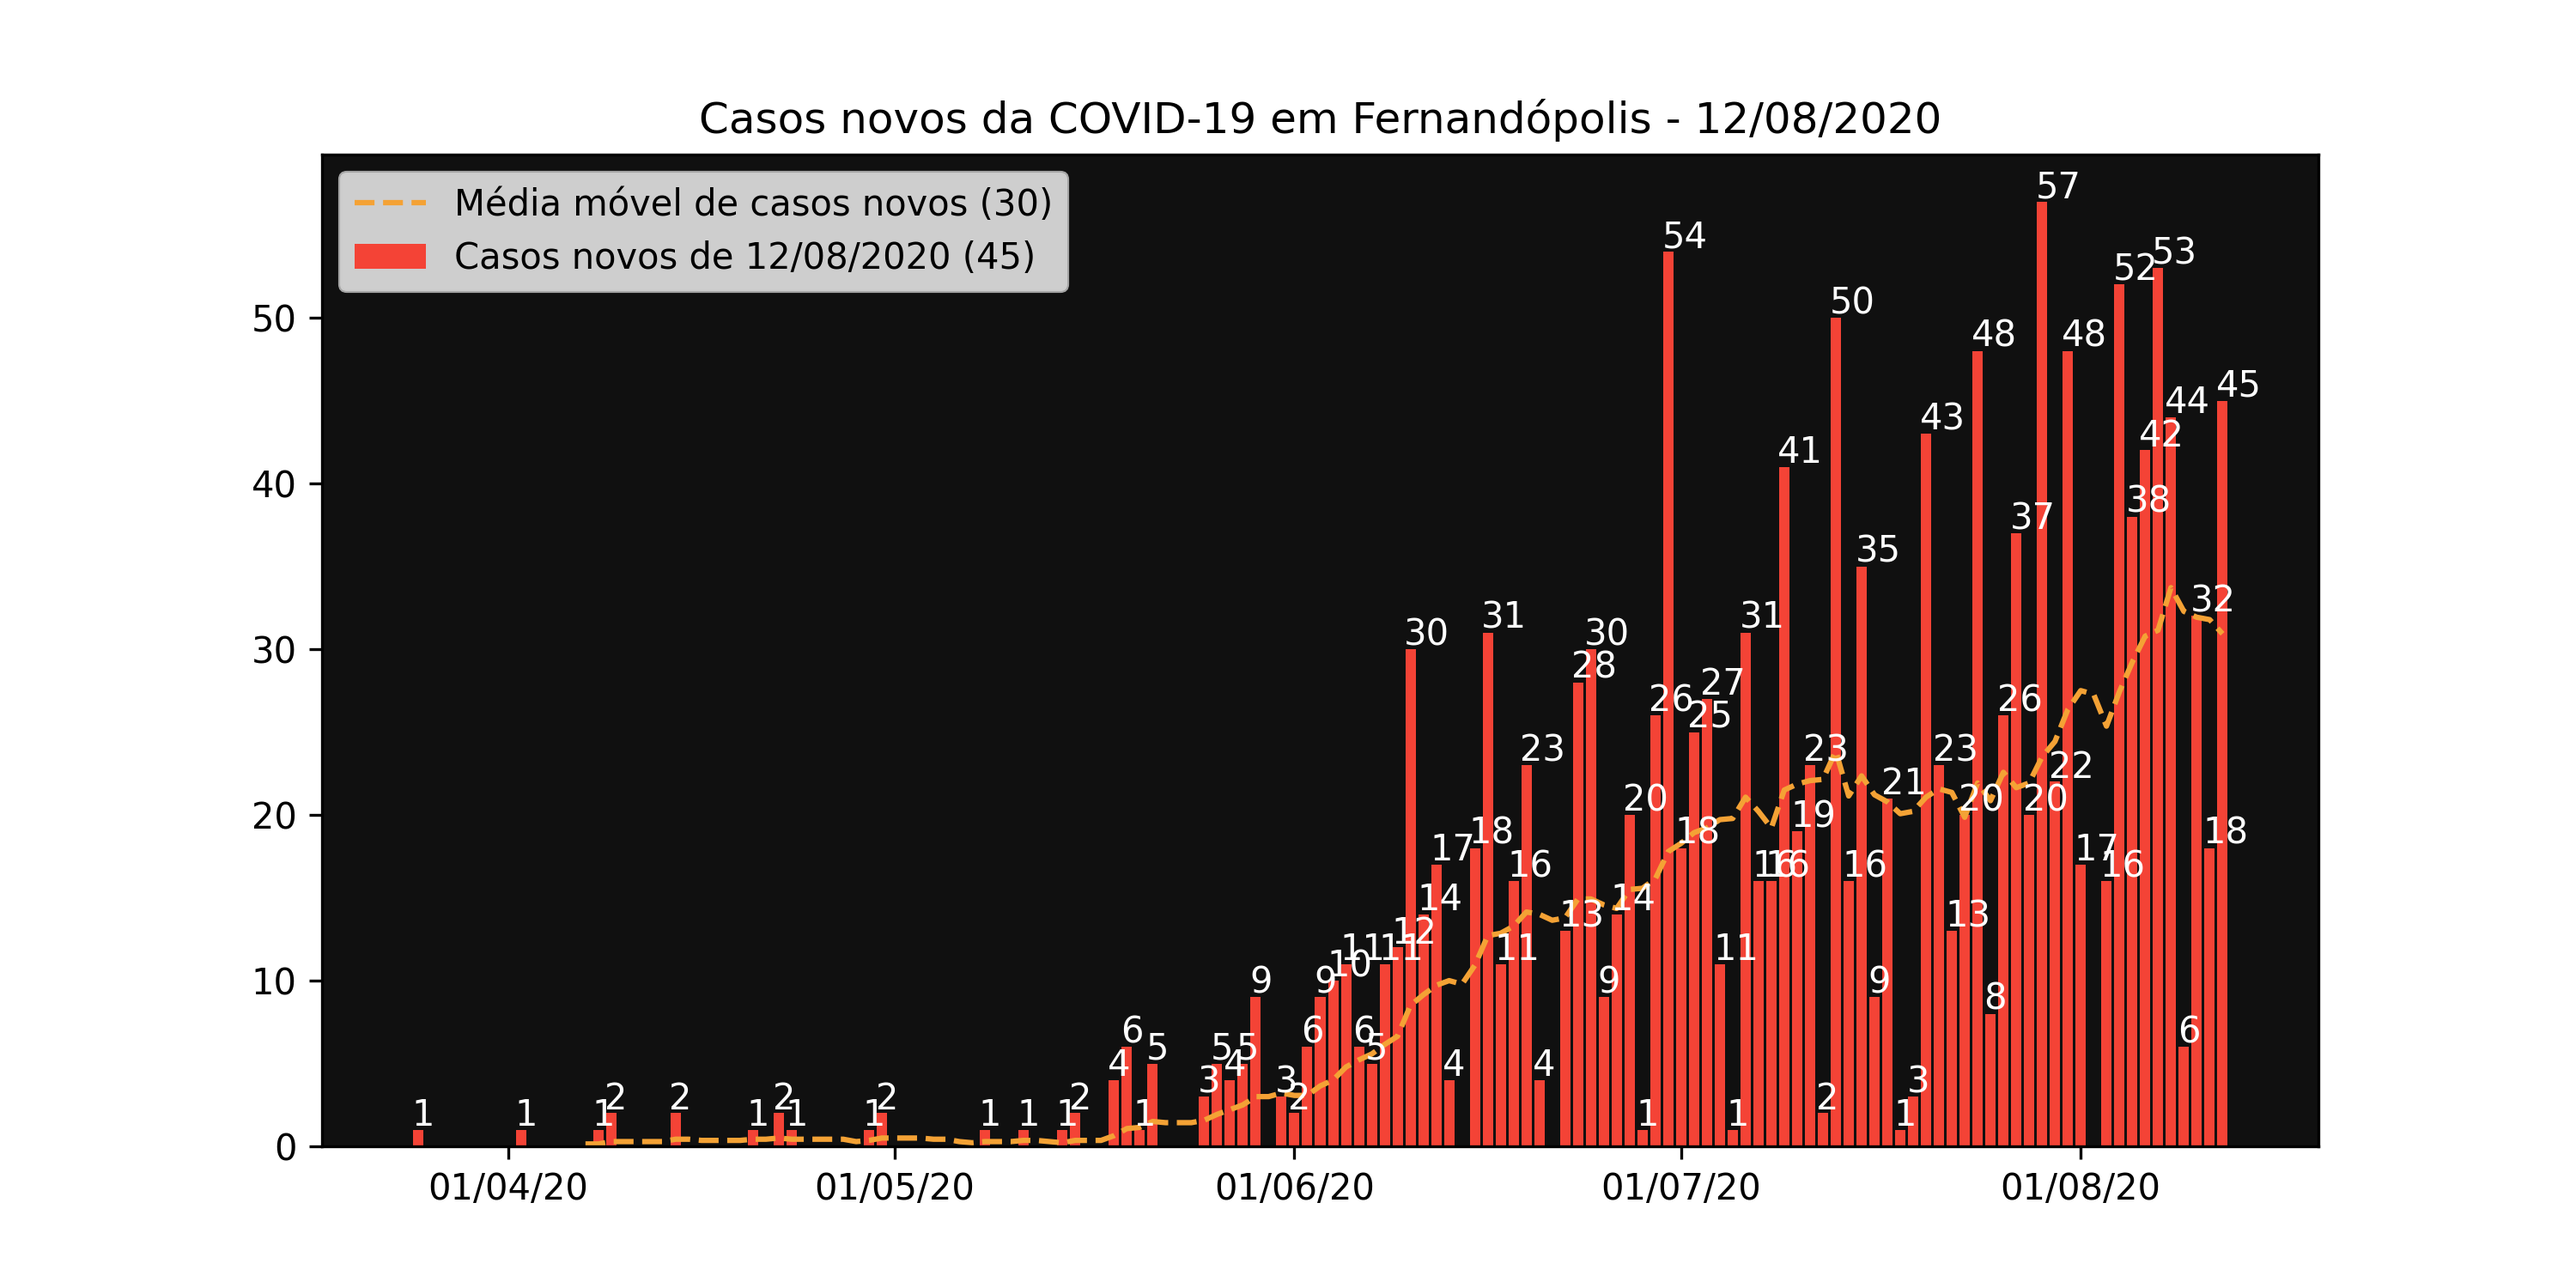
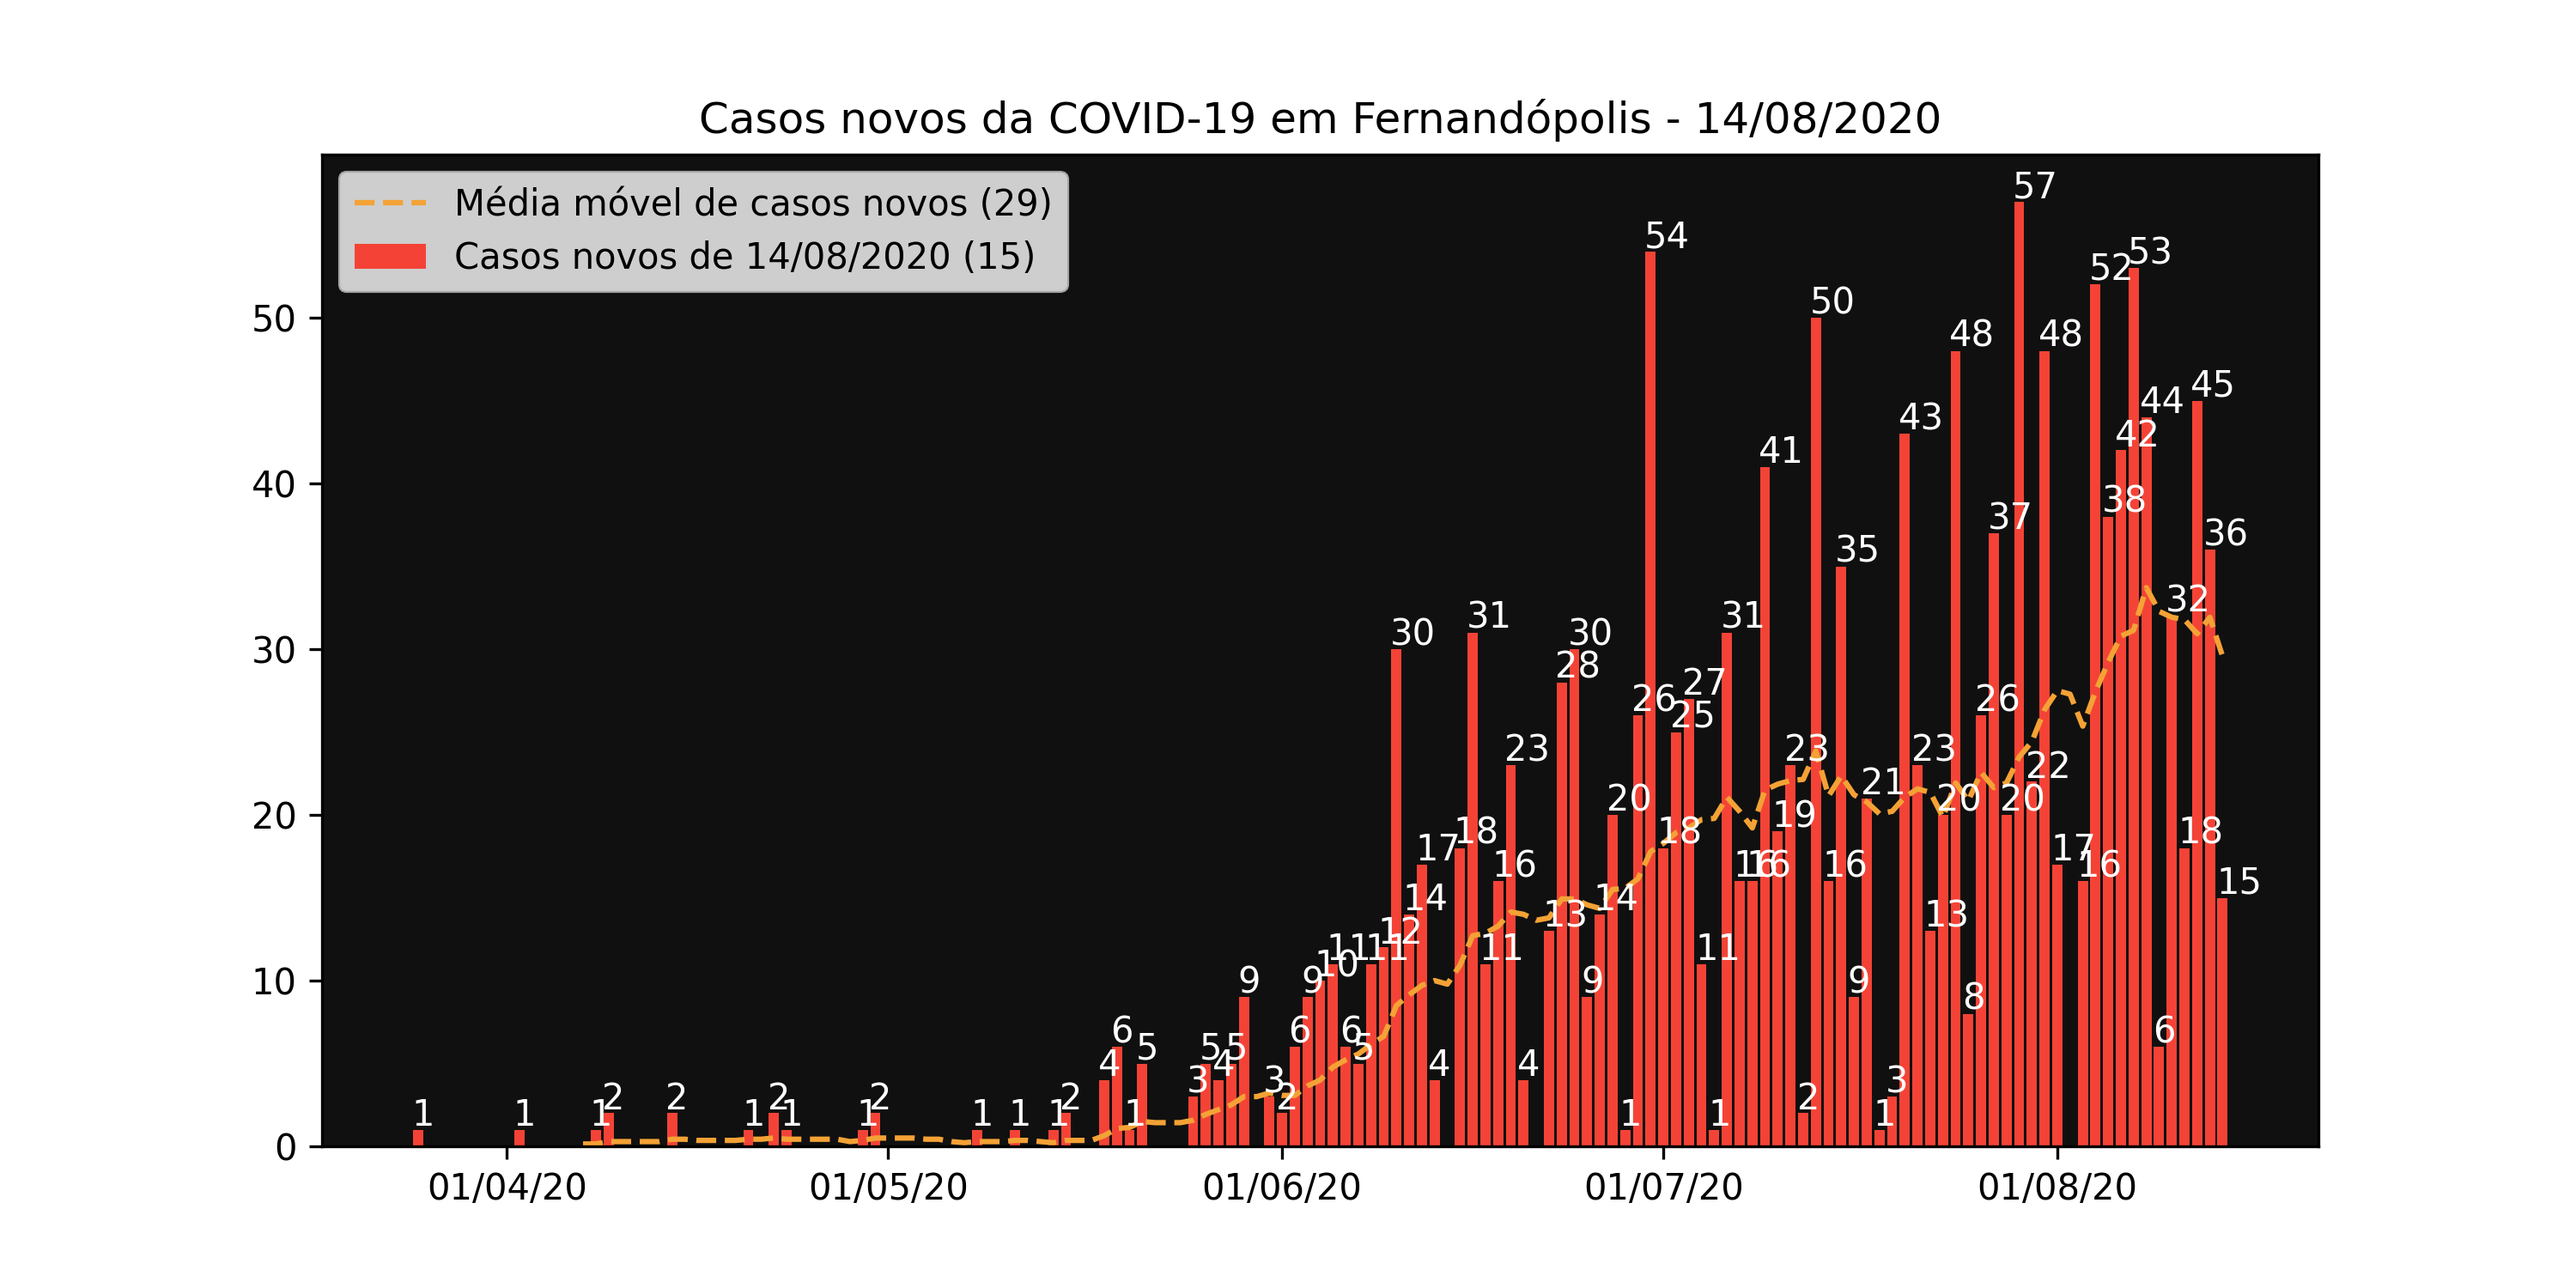
atualização sex 14 ago 2020 19:41:13 -03

Changed region(s): [[0.217, 0.1227, 0.868, 0.9507], [0.713, 0.2147, 0.744, 0.2453], [0.372, 0.184, 0.403, 0.2147]]

diff --git a/README.md b/README.md
@@ -2,7 +2,7 @@
 
 Repositório público para a divulgação dos casos da COVID-19 de Fernandópolis / SP.
 
-Atualizado de Segunda a Sexta por volta das 19h.
+Atualizado toda Segunda, Quarta e Sexta após as 19h.
 
 Os dados aqui apresentados são retirados dos boletins epidemiológicos publicados pela prefeitura municipal na sua página do Facebook e por isso apresentam um atraso na sua atualização. Os gráficos gerados pelo script em Python servem apenas de referência, como uma forma de visualização gráfica dos dados já apresentados pela prefeitura. Como já esclarecido na licença, todo o conteúdo desse repositório é de domínio público e pode ser copiado, alterado e republicado livremente.
 
